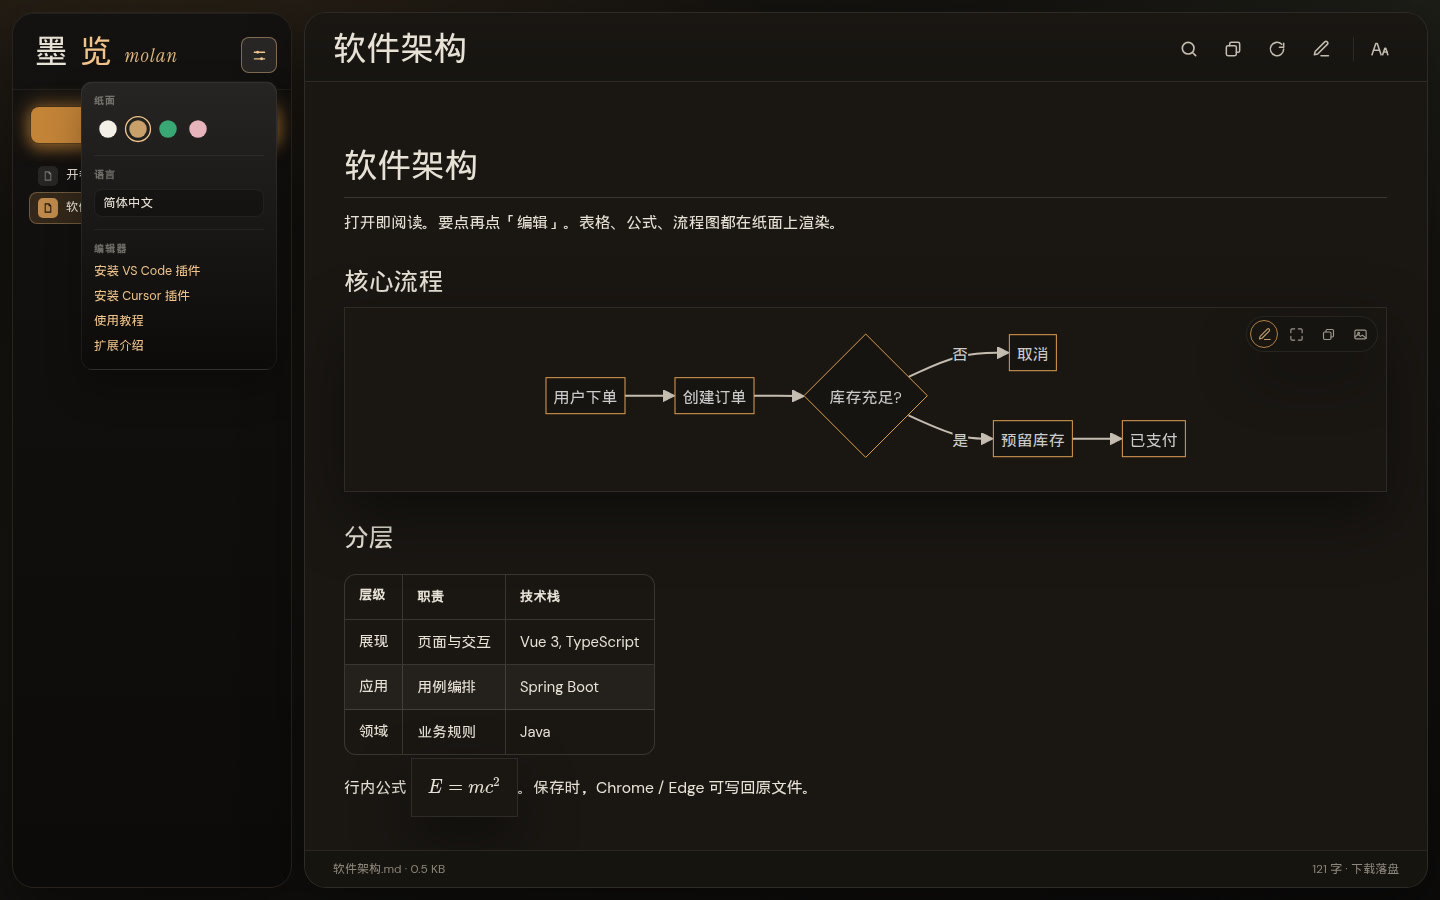
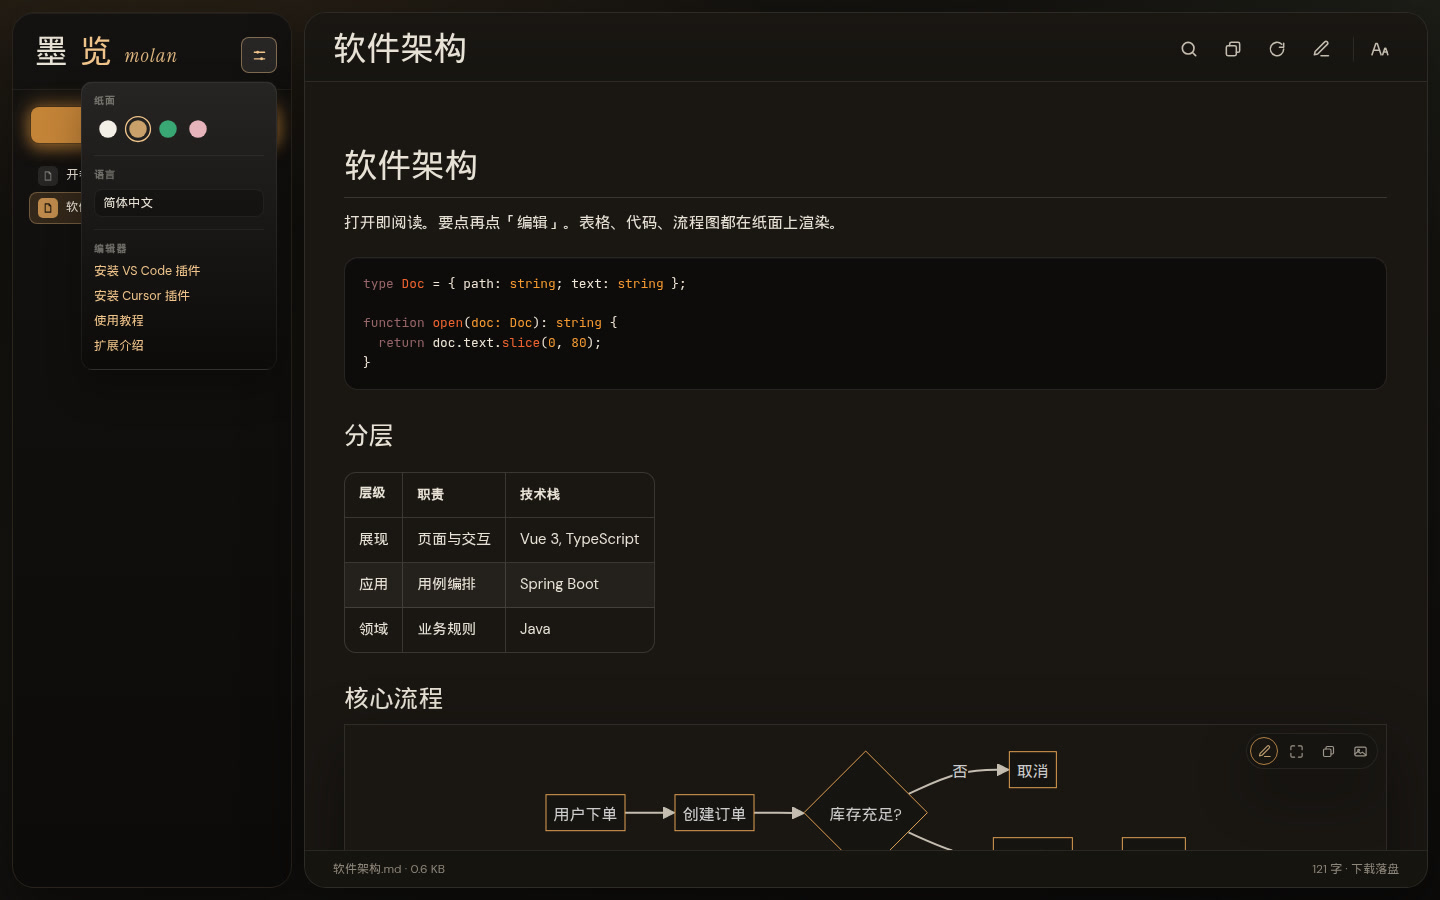
Show title, code, and table editing in the web studio intro GIF.
The demo document now includes a TypeScript block, and the recording types into the heading, expands the code fence, and edits a table cell before returning to preview.

diff --git a/tools/markdown-viewer/guide.html b/tools/markdown-viewer/guide.html
@@ -231,7 +231,7 @@
       <a class="cta primary" href="./?demo=1">打开工作室并试读示例</a>
       <a class="cta" href="./extension.html">安装编辑器扩展</a>
     </div>
-    <img class="hero" src="./studio-intro.gif" width="1280" height="800" alt="墨览工作室：打开样例、切换纸面、点编辑" />
+    <img class="hero" src="./studio-intro.gif" width="1280" height="800" alt="墨览工作室：试读示例、切换纸面、编辑标题代码与表格" />
 
     <h2><span class="n">01</span>打开</h2>
     <p>打开 <a href="./">molan.guoyoutech.cn</a> 就是工作室。左侧是目录，右侧是纸面。第一次可以先点开卷页左下角的「试读示例」，不必立刻授权本地文件夹。</p>
@@ -270,9 +270,15 @@
     <p class="cap">同一菜单里也可以换界面语言，或一键去安装 VS Code / Cursor 扩展。</p>
 
     <h2><span class="n">04</span>要点再编辑</h2>
-    <p>要改字时，点顶栏铅笔进入类 Typora 的即时渲染。 <kbd>Ctrl</kbd> / <kbd>Cmd</kbd> + <kbd>S</kbd> 保存。Chrome / Edge 写回原文件；兼容模式会下载。</p>
-    <img class="shot" src="./shots/edit.jpg" width="1440" height="900" alt="编辑态：即时渲染 Markdown" />
-    <p class="cap">编辑态仍是同一张纸，只是光标可以进去改。再点眼睛回到预览。</p>
+    <p>要改字时，点顶栏铅笔进入类 Typora 的即时渲染：标题、代码、表格都在纸面上改，不必先面对一屏源码。 <kbd>Ctrl</kbd> / <kbd>Cmd</kbd> + <kbd>S</kbd> 保存。Chrome / Edge 写回原文件；兼容模式会下载。</p>
+    <img class="shot" src="./shots/edit-title.jpg" width="1440" height="900" alt="编辑标题：在纸面上把「软件架构」改成「软件架构草案」" />
+    <p class="cap">点进标题，直接改字。井号还在，但读起来仍是标题。</p>
+    <img class="shot" src="./shots/edit-code.jpg" width="1440" height="900" alt="编辑代码：展开 TypeScript 代码块并补上一行" />
+    <p class="cap">点代码块顶部展开源码，改完仍按阅读样式着色。</p>
+    <img class="shot" src="./shots/edit-table.jpg" width="1440" height="900" alt="编辑表格：在技术栈单元格里加上 Pinia" />
+    <p class="cap">表格单元格也能点进去写。再点眼睛回到预览。</p>
+    <img class="shot" src="./shots/preview-edited.jpg" width="1440" height="900" alt="回到预览：标题、代码、表格都已更新" />
+    <p class="cap">预览里就是刚写下的内容，流程图仍在纸面上。</p>
 
     <h2><span class="n">05</span>也在编辑器里用</h2>
     <p>同一套墨览可以装进 Cursor 或 VS Code：点击 <code>.md</code> 就是预览，不必先面对一屏源码。</p>

diff --git a/tools/markdown-viewer/demo/软件架构.md b/tools/markdown-viewer/demo/软件架构.md
@@ -1,6 +1,22 @@
 # 软件架构
 
-打开即阅读。要点再点「编辑」。表格、公式、流程图都在纸面上渲染。
+打开即阅读。要点再点「编辑」。表格、代码、流程图都在纸面上渲染。
+
+```typescript
+type Doc = { path: string; text: string };
+
+function open(doc: Doc): string {
+  return doc.text.slice(0, 80);
+}
+```
+
+## 分层
+
+| 层级 | 职责 | 技术栈 |
+| --- | --- | --- |
+| 展现 | 页面与交互 | Vue 3, TypeScript |
+| 应用 | 用例编排 | Spring Boot |
+| 领域 | 业务规则 | Java |
 
 ## 核心流程
 
@@ -12,13 +28,3 @@ flowchart LR
   C -->|是| E[预留库存]
   E --> F[已支付]
 ```
-
-## 分层
-
-| 层级 | 职责 | 技术栈 |
-| --- | --- | --- |
-| 展现 | 页面与交互 | Vue 3, TypeScript |
-| 应用 | 用例编排 | Spring Boot |
-| 领域 | 业务规则 | Java |
-
-行内公式 $E = mc^2$。保存时，Chrome / Edge 可写回原文件。
